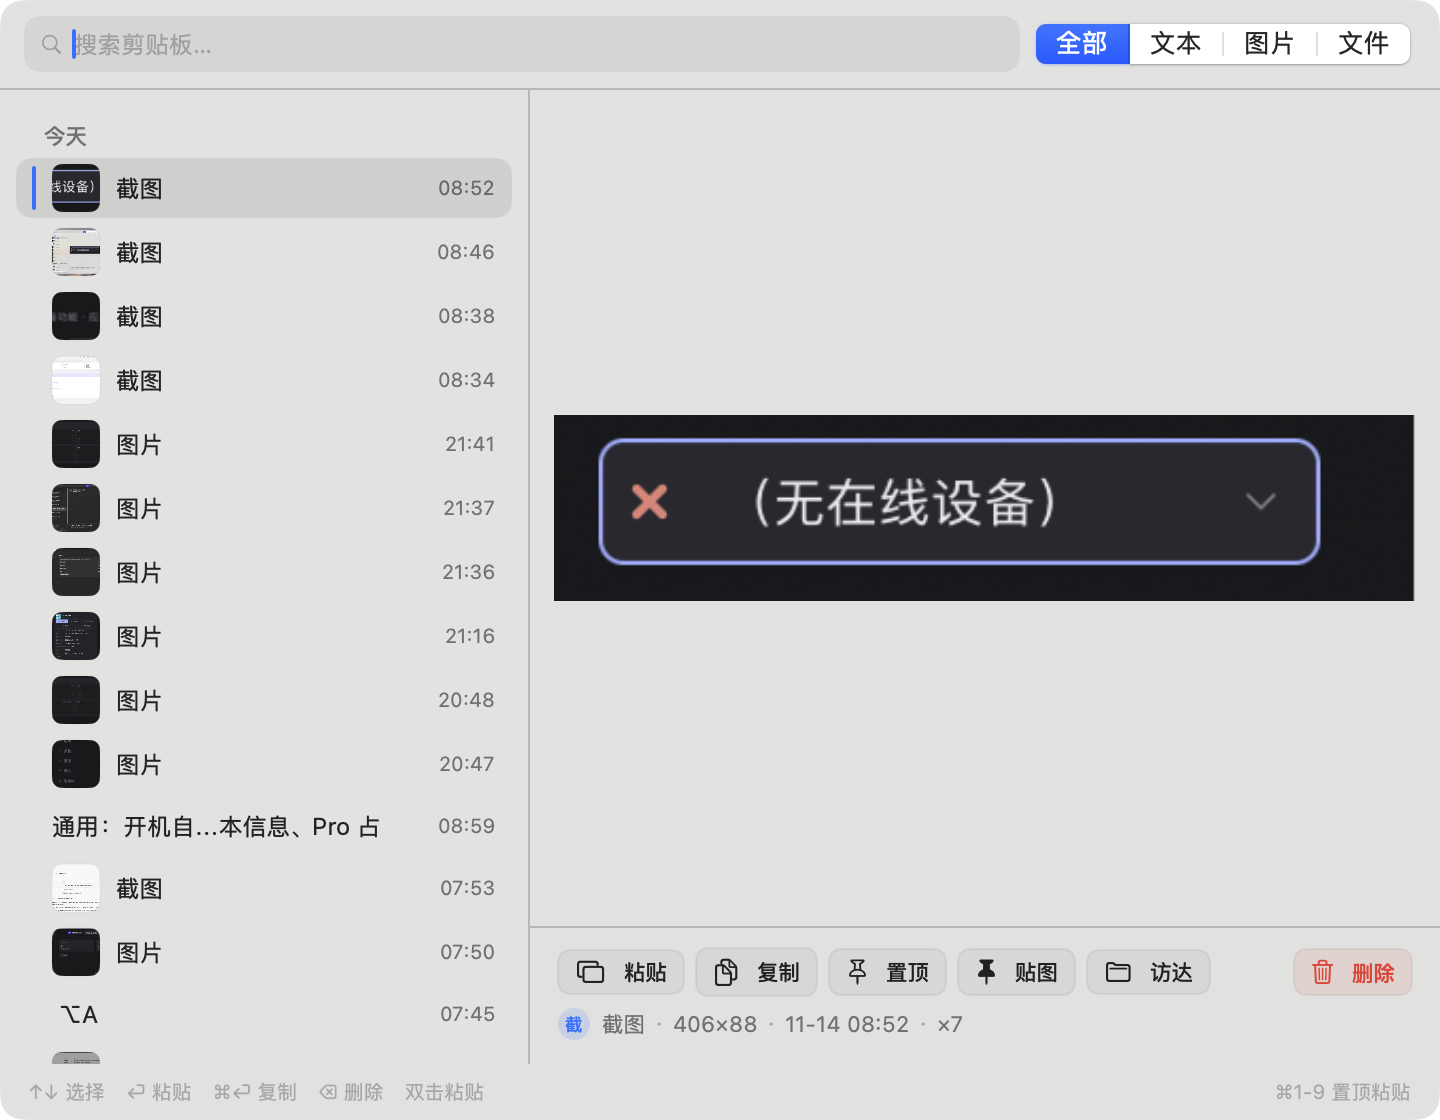
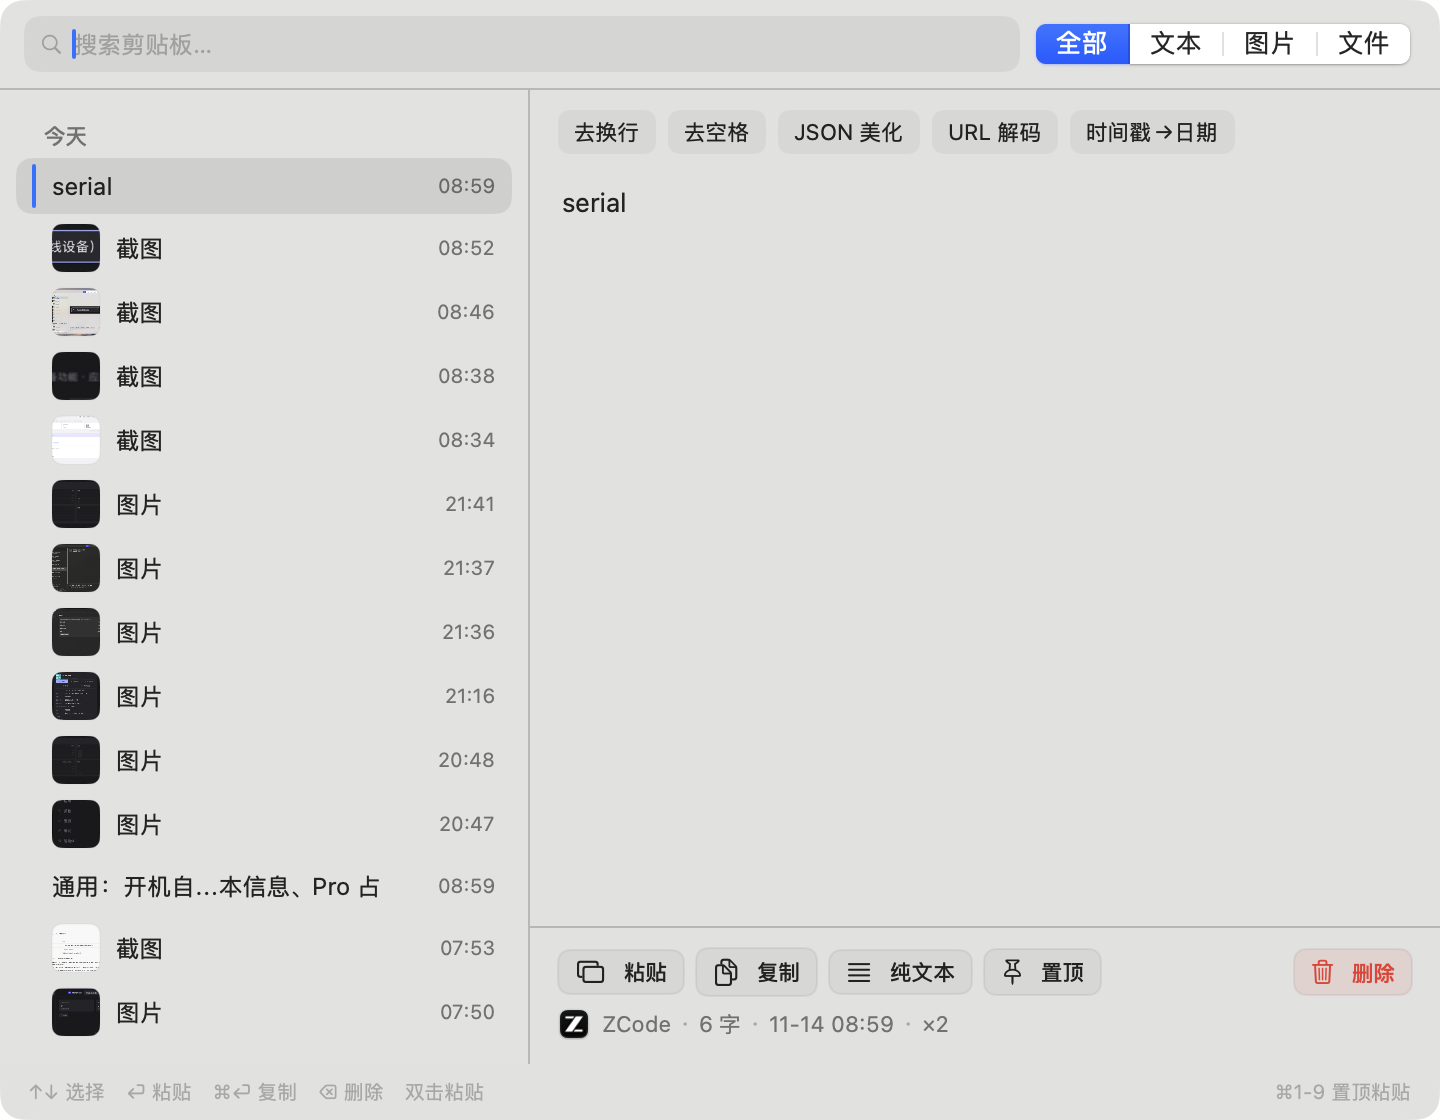
fix: 截图标注坐标空间修复（手势→选区局部）+ 面板显隐 resignKey 竞态 + 列表单行化 + 缩略图 24px + panel 截图更新

diff --git a/Sources/PinClip/Panel/PanelController.swift b/Sources/PinClip/Panel/PanelController.swift
@@ -6,6 +6,8 @@ import SwiftUI
 @MainActor
 final class PanelController: NSObject, NSWindowDelegate, PanelActions {
     private let panel: PanelPanel
+    /// 失焦收起的抑制开关：showPanel 内部的 orderOut 会触发一次 resignKey，不能被当成用户点走
+    private var resignSuppress = false
     private let settingsStore: SettingsStore
     private let panelVM: PanelVM
     private weak var appState: AppState?
@@ -56,12 +58,14 @@ final class PanelController: NSObject, NSWindowDelegate, PanelActions {
     func showPanel() {
         NSLog("PinClip.panel: showPanel visibleBefore=\(panel.isVisible)")
         appState?.refreshPermissions()
+        resignSuppress = true
         // 先隐藏再定位：显示模式重排后，服务端合成位置可能与 NSWindow 坐标脱节（0.9 倍缩放残留），
         // 相同 frame 的 setFrame 会被当 no-op 跳过；orderOut 强制下一次显示采用新 frame
         panel.orderOut(nil)
         positionNearCursor()
         panel.makeKeyAndOrderFront(nil)
         positionNearCursor()
+        resignSuppress = false
         NotificationCenter.default.post(name: .pinclipPanelShown, object: nil)
     }
 
@@ -91,9 +95,11 @@ final class PanelController: NSObject, NSWindowDelegate, PanelActions {
     // MARK: 失焦自动收起（弹层语义）
 
     nonisolated func windowDidResignKey(_ notification: Notification) {
+        let suppressed = MainActor.assumeIsolated { resignSuppress }
         DispatchQueue.main.async { [weak self] in
             MainActor.assumeIsolated {
-                self?.hidePanel()
+                guard let self, !suppressed else { return }
+                self.hidePanel()
             }
         }
     }
